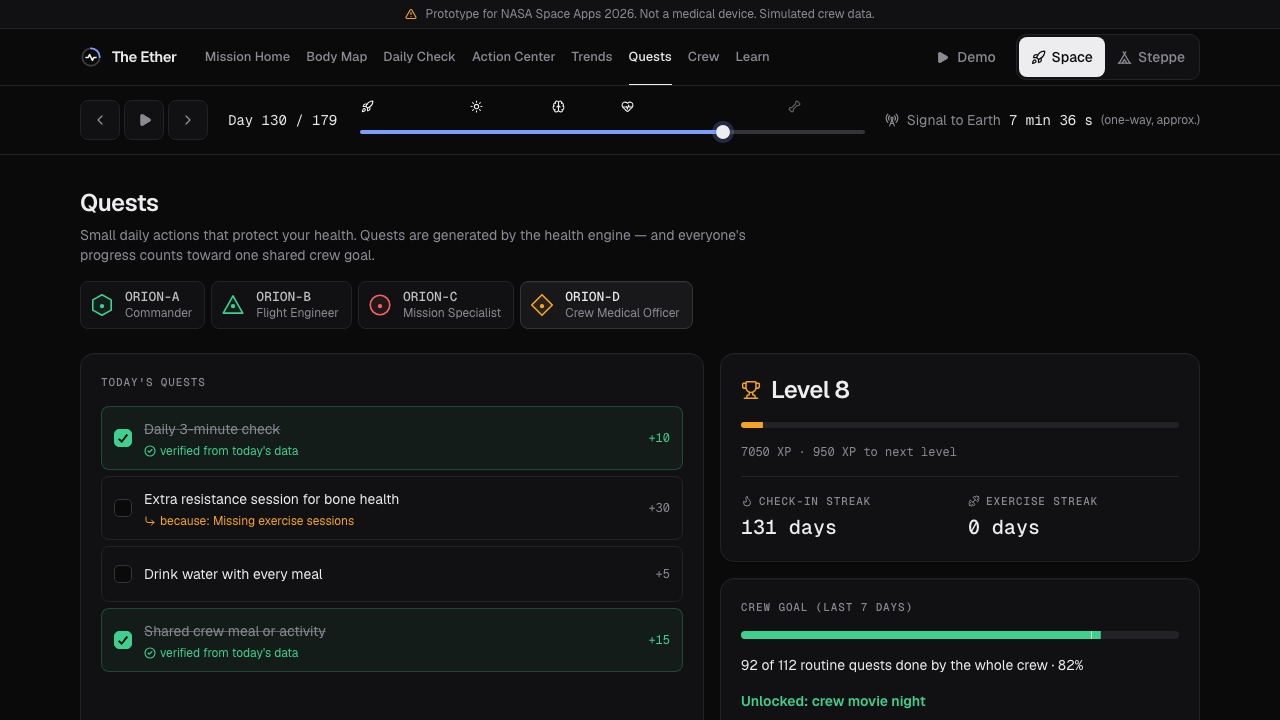
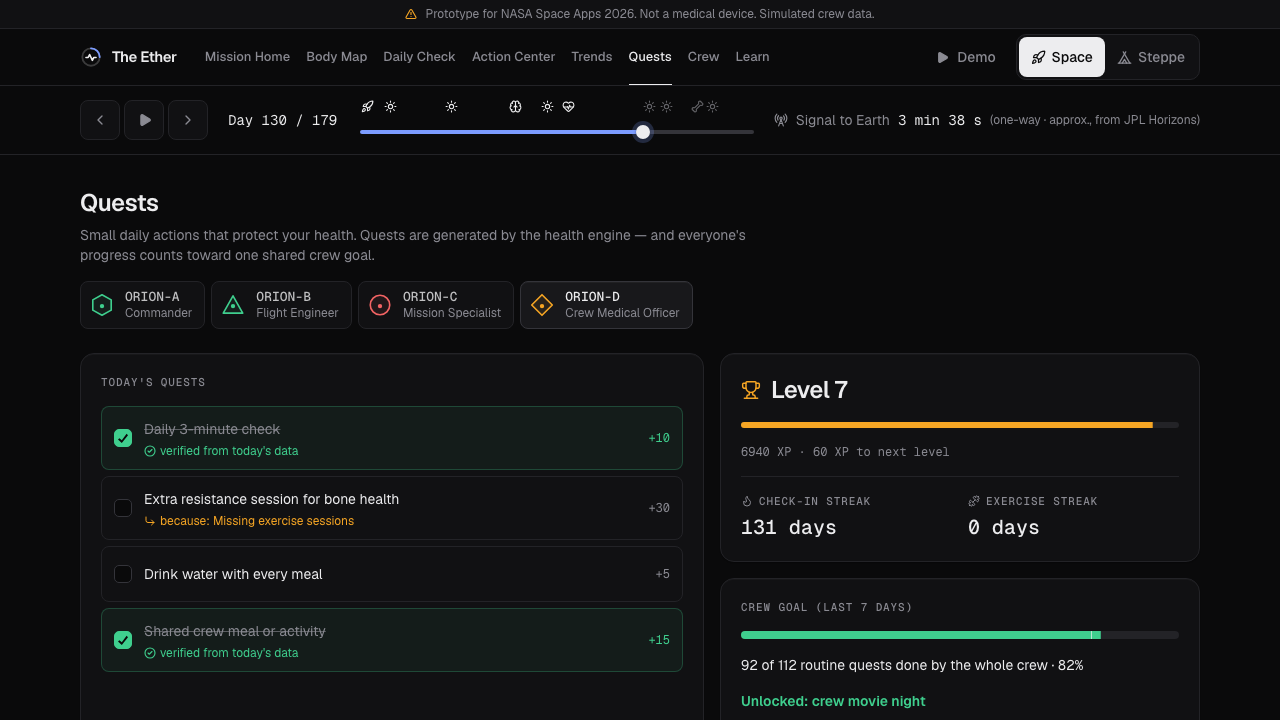
docs: retake README screenshots for the new design and real NASA data; send NASA key in a header
- Retook all README screenshots, plus new ones: real DONKI solar storm (Home + alert),
  Signal to Earth from JPL Horizons, Steppe POWER weather card, Data & sources tab.
- api.nasa.gov key now travels in the X-Api-Key header instead of the query string, so it
  never lands in URLs, logs or Next's URL-keyed fetch cache.
- .gitignore lists .env.local explicitly; README bullets updated; Learn deep-link e2e uses
  the real hazard-tag click.

diff --git a/lib/nasa/server.test.ts b/lib/nasa/server.test.ts
@@ -17,10 +17,12 @@ describe("NASA server fetchers", () => {
   });
   afterEach(() => vi.unstubAllGlobals());
 
-  it("serve live data when NASA answers, cached for a day, and send the key only to api.nasa.gov", async () => {
+  it("serve live data when NASA answers, cached for a day, and send the key only to api.nasa.gov, in a header", async () => {
     const urls: string[] = [];
-    vi.stubGlobal("fetch", vi.fn(async (url: string) => {
+    const keyed: string[] = [];
+    vi.stubGlobal("fetch", vi.fn(async (url: string, init?: RequestInit) => {
       urls.push(url);
+      if ((init?.headers as Record<string, string> | undefined)?.["X-Api-Key"]) keyed.push(url);
       if (url.includes("DONKI")) return json([]);
       if (url.includes("horizons")) return json(horizonsSnapshot.response);
       return json(powerSnapshot.response);
@@ -29,8 +31,9 @@ describe("NASA server fetchers", () => {
     expect([sw.status, lt.status, w.status]).toEqual(["live", "live", "live"]);
     expect(lt.data.rows).toHaveLength(180);
     expect(cacheLife.mock.calls.flat()).toEqual(["days", "days", "days"]);
-    expect(urls.filter((u) => u.includes("api_key"))).toHaveLength(3);
-    expect(urls.filter((u) => u.includes("api_key")).every((u) => u.startsWith("https://api.nasa.gov/"))).toBe(true);
+    expect(urls.some((u) => /api_key/i.test(u))).toBe(false);
+    expect(keyed).toHaveLength(3);
+    expect(keyed.every((u) => u.startsWith("https://api.nasa.gov/"))).toBe(true);
     expect(JSON.stringify([sw.requests, lt.requests, w.requests])).not.toContain("api_key");
   });
 

diff --git a/lib/nasa/server.ts b/lib/nasa/server.ts
@@ -24,8 +24,11 @@ function apiKey(): string {
   return process.env.NASA_API_KEY || "DEMO_KEY";
 }
 
-async function getJson(url: string): Promise<unknown> {
-  const res = await fetch(url, { signal: AbortSignal.timeout(TIMEOUT_MS), headers: { Accept: "application/json" } });
+/** The key travels in a header (api.nasa.gov accepts X-Api-Key), so it never appears in URLs, logs or caches keyed by URL. */
+async function getJson(url: string, apiKey?: string): Promise<unknown> {
+  const headers: Record<string, string> = { Accept: "application/json" };
+  if (apiKey) headers["X-Api-Key"] = apiKey;
+  const res = await fetch(url, { signal: AbortSignal.timeout(TIMEOUT_MS), headers });
   if (!res.ok) throw new Error(`HTTP ${res.status}`);
   return res.json();
 }
@@ -41,7 +44,7 @@ function fallback<T>(name: string, snapshot: Feed<T>, errors: unknown[]): Feed<T
 
 async function donkiFrom(base: string, key?: string): Promise<{ records: unknown[]; requests: string[] }> {
   const ranges = donkiRanges();
-  const parts = await Promise.all(ranges.map(([s, e]) => getJson(donkiUrl(base, s, e, key))));
+  const parts = await Promise.all(ranges.map(([s, e]) => getJson(donkiUrl(base, s, e), key)));
   if (!parts.every(Array.isArray)) throw new Error("DONKI: expected arrays");
   return { records: parts.flat(), requests: ranges.map(([s, e]) => donkiUrl(base, s, e)) };
 }

diff --git a/e2e/nasa.spec.ts b/e2e/nasa.spec.ts
@@ -128,9 +128,10 @@ test("Learn: group by hazard, CSA radiation + Earth notes, Data & sources tab", 
   await expect(page.getByTestId("source-donki")).toContainText("/api/nasa/space-weather");
   await expect(page.getByTestId("simulated-note")).toContainText("Simulated");
 
-  // Hazard tags elsewhere deep-link here.
-  await page.goto("/learn#hazard-isolation");
-  await waitForData(page);
+  // A hazard tag on an alert deep-links here with that hazard open.
+  await at(page, "/alerts", "ORION-B", "70");
+  await page.locator('[data-rule="behavioral-drift"]').getByTestId("hazard-tags").getByRole("link", { name: "Isolation and Confinement" }).click();
+  await expect(page).toHaveURL(/\/learn#hazard-isolation$/);
   await expect(page.getByTestId("hazard-detail")).toContainText("Isolation and Confinement");
   expect(problems).toEqual([]);
 });

diff --git a/README.md b/README.md
@@ -39,14 +39,22 @@ On a Mars mission the dangerous health problems are rarely sudden. They are slow
 - **Trends**: multi-indicator charts with personal baseline bands, mission-event annotations, and 7 / 30 day / whole-mission ranges.
 - **Quests**: XP, levels, streaks, and a shared crew goal.
 - **Crew**: the CMO overview with a **privacy-first** toggle (crewmates see only colors unless a person shares).
-- **Learn**: NASA's 5 hazards and 10 indicator cards, each answering *can it be measured in space, why it matters, when to escalate*, with sources.
-- **Works offline** (PWA, hand-written service worker), **zero setup** (no accounts, keys or backend; data stays on the device), and **Demo Mode** to play the story with captions.
+- **Learn**: NASA's 5 hazards (pick one to see its indicators, body systems, alerts and HRP risk pages), the CSA radiation explainer, a list of the real DONKI solar storms on this mission, why space research helps Earth, and 10 indicator cards (*can it be measured in space, why it matters, when to escalate*). A **Data & sources** tab lists every official resource and NASA API and what it powers.
+- **Real NASA data**: DONKI solar storms, JPL Horizons light time and NASA POWER weather, marked with a "Real NASA data" badge; crew health data stays simulated.
+- **Works offline** (PWA, hand-written service worker), no accounts (health data stays on the device), and **Demo Mode** to play the story with captions.
 
 | | |
 | --- | --- |
 | ![Body Map](docs/screenshots/body-day95.png) | ![Action Center](docs/screenshots/alerts-day95.png) |
 | ![Trends](docs/screenshots/trends-day95.png) | ![Steppe mode](docs/screenshots/steppe-home.png) |
 | ![Quests](docs/screenshots/quests-day130.png) | ![Crew](docs/screenshots/crew-day70.png) |
+
+### Real NASA data
+
+| | |
+| --- | --- |
+| ![Day 40: real NASA DONKI solar storm (8 Jun 2024) on Home, with Signal to Earth from JPL Horizons](docs/screenshots/home-day40-real-data.png) | ![Solar particle event alert built from the real DONKI event: shelter, CMO checks dose](docs/screenshots/alerts-day40-solar.png) |
+| ![Steppe mode: real NASA POWER weather card in Mongolian](docs/screenshots/steppe-home.png) | ![Learn → Data & sources: every official resource and NASA API, live or snapshot](docs/screenshots/learn-data-sources.png) |
 
 ## The demo story (synthetic data)
 
